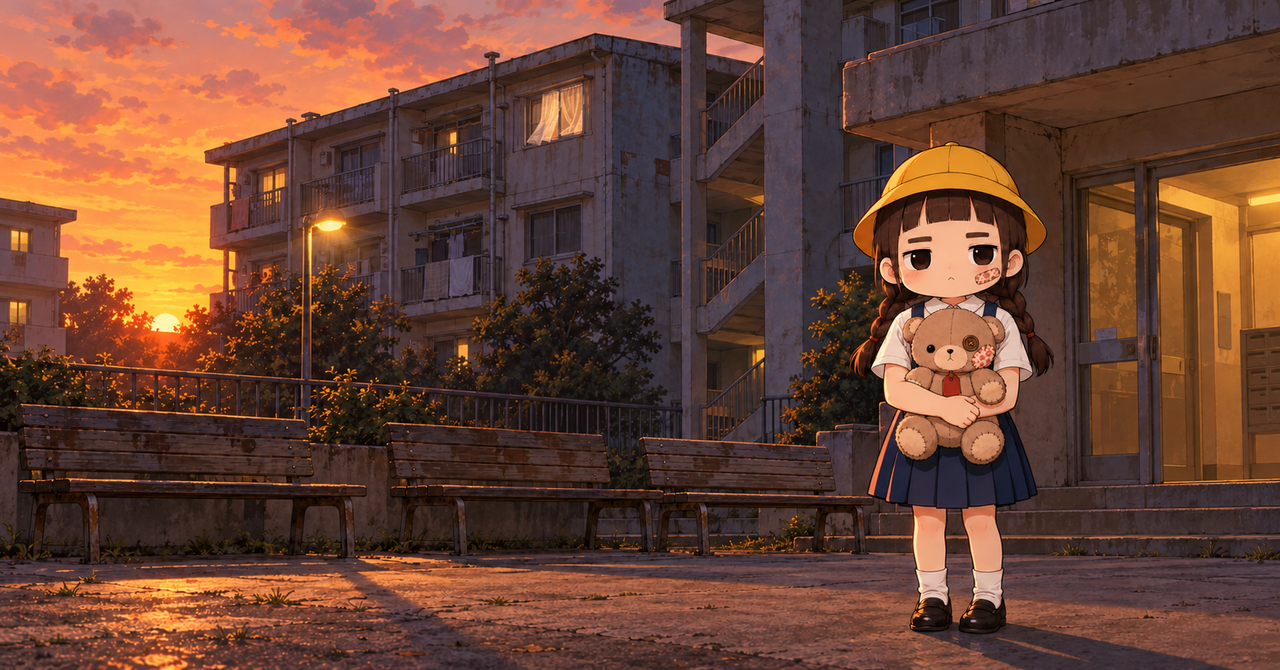
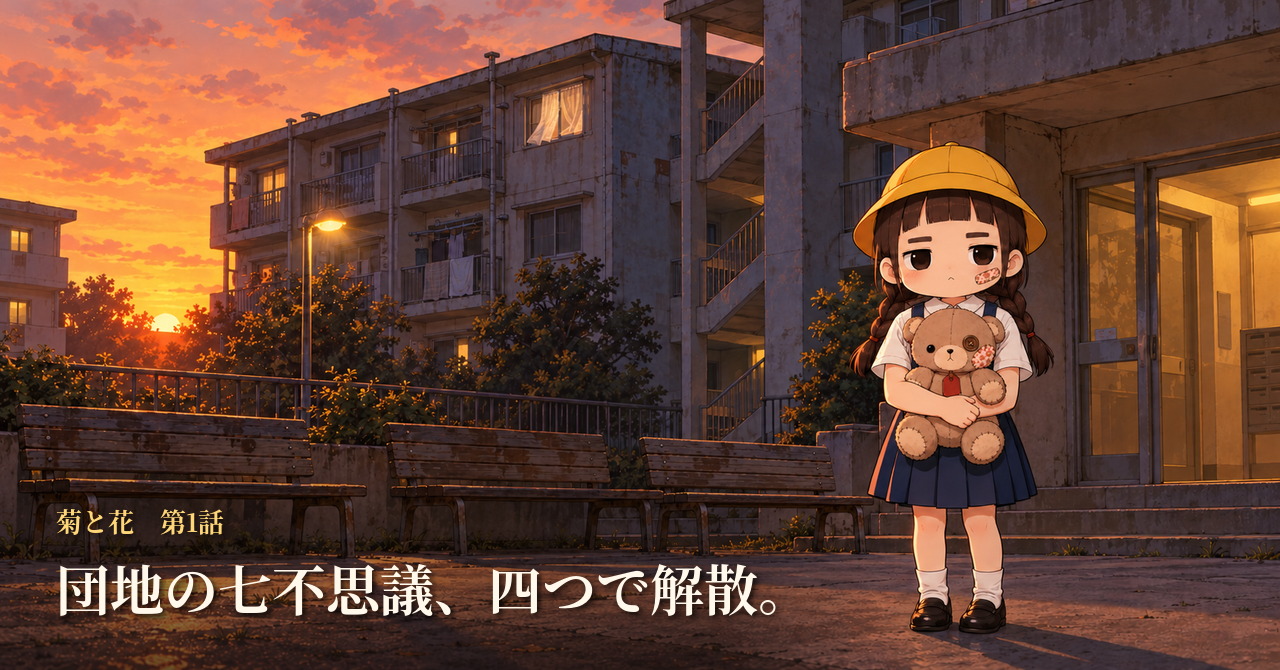
Weekly hub update: published story, reading and illustration

Changed region(s): [[0.0, 0.806, 0.6562, 1.0], [0.0312, 0.7463, 0.1875, 0.806]]

diff --git a/index.html b/index.html
@@ -2,7 +2,7 @@
 <header><a class="brand" href="#">菊<span>と</span>花<i> KIKU TO HANA</i></a><nav aria-label="メイン"><a href="#watch">動画</a><a href="#board">掲示板</a><a href="#about">ふたり</a><a class="nav-shop" href="#shop">スタンプ・グッズ ↗</a></nav></header>
 <main><section class="hero"><div class="buildings" aria-hidden="true"><div></div><div></div><div></div></div><div class="hero-copy"><p class="eyebrow">WELCOME TO OUR LITTLE NEIGHBORHOOD</p><h1>かわいい顔して、<br>今日も、<span>真顔。</span></h1><p class="intro">団地の4階に住むキクと、テディベアのハナ。<br>大人の「絶対」を、ゆるく、鋭く、見つめています。</p><a class="button dark" href="#watch">まずは、ひとつ見ていく？ <span>↘</span></a><div class="quote">「……って、ハナが言ってました。」</div></div><div class="hero-art"><div class="sun" aria-hidden="true"></div><img src="rock.png" alt="赤いギターを持つロックスタイルのキクと、アンプの上に座るハナ"><div class="music-notes" aria-hidden="true"><span>♪</span><span>♫</span><span>🎵</span></div><div class="music-player"><button id="music-toggle" type="button" aria-pressed="false"><small>LET&#39;S PLAY!</small><strong>▶ だる。ちょっと弾いてみるか</strong></button><label class="track-label">曲を選ぶ<select id="music-track" aria-label="演奏する曲"><option value="theme-instrumental.mp3">テーマ曲A · インスト</option><option value="theme-vocal.mp3">テーマ曲A · 歌あり</option><option value="haikaisan.mp3">はい、かいさん。のうた</option></select></label><label>音量 <input id="music-volume" type="range" min="0" max="1" step="0.05" value="0.35" aria-label="演奏の音量"></label><p id="music-status" role="status">押すと音楽が流れます。</p></div><audio id="theme-audio" preload="none" src="theme-instrumental.mp3"></audio></div><div class="hero-bottom"><span>団地のひろば · 晴れ、ときどき皮肉。</span><a href="#watch">SCROLL ↓</a></div></section>
 <section id="watch" class="watch section"><div class="section-heading"><div><p class="eyebrow">ON AIR</p><h2>ひろばのテレビ。</h2></div><p>ちょっとだけ、見ていって。<br>はい、解散。はそのあとで。</p></div><div class="tv-scene"><div class="tv"><div class="antenna" aria-hidden="true"></div><div class="tv-body"><a class="screen" href="https://www.tiktok.com/@kandhkikutohana" target="_blank" rel="noopener noreferrer" aria-label="TikTokで菊と花の動画を見る"><img src="danchi.png" alt="昼の団地"><div class="screen-caption"><span>EPISODE 03</span><strong>幸運の<br>回覧板。</strong><b class="play">▶</b><small>TikTokで見る ↗</small></div></a><div class="tv-controls" aria-hidden="true"><i></i><i></i><div></div><b>K&H</b></div></div><div class="tv-feet" aria-hidden="true"></div></div><div class="tv-viewer"><img class="normal-viewer keyed" src="tv-kiku.png" alt="通常のキクとハナ"><span>「それ、回したら幸せになるの？」</span></div></div><div class="watch-footer"><p>第3話「幸運の回覧板」<small>TikTokでキクとハナのお話を見る。</small></p><a class="text-link" href="https://www.youtube.com/channel/UC3nV8X_xIFuI_V4RlIwc8xg" target="_blank" rel="noopener noreferrer">YouTubeでも見る ↗</a></div></section>
-<section id="board" class="board-zone section"><div class="section-heading"><div><p class="eyebrow">NEIGHBORHOOD BOARD</p><h2>団地の掲示板。</h2></div><p>一枚の絵、一行の皮肉。<br>ふたりの日常を、ここから。</p></div><div class="board"><a class="pinned picture" href="https://x.com/kikutohana" target="_blank" rel="noopener noreferrer"><span class="pin"></span><img src="post.png" alt="銭湯の入口に立つキクとハナ"><div><small>ILLUSTRATION · X</small><h3>今日のキクとハナ。</h3><p>一言で、空気がちょっと変わる。</p><span class="text-link">Xで見にいく ↗</span></div></a><a class="pinned note-card" href="https://note.com/kiku_and_hana" target="_blank" rel="noopener noreferrer"><span class="pin"></span><small>STORIES · NOTE</small><h3>読む、<br>菊と花。</h3><img src="note.png" alt="note小説の団地の風景"><p>「団地の七不思議、<br>四つで解散。」</p><span class="text-link">小説を読みにいく ↗</span></a><a class="pinned insta" href="https://www.instagram.com/kikutohana/" target="_blank" rel="noopener noreferrer"><span class="pin"></span><small>PHOTO DIARY · INSTAGRAM</small><img class="insta-photo" src="instagram.png" alt="夜の団地で立つキクとハナのInstagram用合成写真"><h3>写真の中にも、<br>ふたりがいる。</h3><p>リアルな景色に、<br>キクとハナの気配。</p><span class="text-link">Instagramで見にいく ↗</span></a></div></section>
-<section id="about" class="about section"><div class="section-heading"><div><p class="eyebrow">MEET KIKU & HANA</p><h2>ふたりのこと。</h2></div></div><div class="about-grid"><div class="profiles"><article><img class="profile-picture" src="kiku-profile.png" alt="SNSプロフィール用のキクの画像"><div><span class="number">01 / KIKU</span><h3>キク<small>小学2年生・団地の4階</small></h3><p>昼寝と駄菓子と、静かな場所が好き。<br>大人の嘘を見抜いて、真顔でボソッと刺す。<br>好きじゃない言葉は「絶対」。</p><b>「だる。」「知ってた。」「はい、解散。」</b></div></article><article><img class="profile-picture" src="hana-profile.png" alt="SNSプロフィール用のハナの単体画像"><div><span class="number">02 / HANA</span><h3>ハナ<small>しゃべらない、テディベア</small></h3><p>キクがいつも抱えている相棒。<br>しゃべらない。動かない。<br>だけど、毒舌の責任はいつもハナに。</p></div></article></div></div></section>
+<section id="board" class="board-zone section"><div class="section-heading"><div><p class="eyebrow">NEIGHBORHOOD BOARD</p><h2>団地の掲示板。</h2></div><p>一枚の絵、一行の皮肉。<br>ふたりの日常を、ここから。</p></div><div class="board"><a class="pinned picture" href="https://x.com/kikutohana" target="_blank" rel="noopener noreferrer"><span class="pin"></span><img src="post.png" alt="昼の団地で朝活疲れの大人を見つめるキクとハナ"><div><small>ILLUSTRATION · X</small><h3>今日のキクとハナ。</h3><p>一言で、空気がちょっと変わる。</p><span class="text-link">Xで見にいく ↗</span></div></a><a class="pinned note-card" href="https://note.com/kiku_and_hana/n/n5a0aa753172b" target="_blank" rel="noopener noreferrer"><span class="pin"></span><small>STORIES · NOTE</small><h3>読む、<br>菊と花。</h3><img src="note.png" alt="団地の七不思議、四つで解散。第1話の見出し画像"><p>「団地の七不思議、<br>四つで解散。」</p><span class="text-link">第1話を読みにいく ↗</span></a><a class="pinned insta" href="https://www.instagram.com/kikutohana/" target="_blank" rel="noopener noreferrer"><span class="pin"></span><small>PHOTO DIARY · INSTAGRAM</small><img class="insta-photo" src="instagram.png" alt="夜の団地で立つキクとハナのInstagram用合成写真"><h3>写真の中にも、<br>ふたりがいる。</h3><p>リアルな景色に、<br>キクとハナの気配。</p><span class="text-link">Instagramで見にいく ↗</span></a></div></section>
+<div class="section" style="padding-top:0;padding-bottom:30px"><a class="text-link" href="https://www.youtube.com/watch?v=kuikYpLWDC0" target="_blank" rel="noopener noreferrer">第1話を朗読で聴く · YouTube ↗</a></div><section id="about" class="about section"><div class="section-heading"><div><p class="eyebrow">MEET KIKU & HANA</p><h2>ふたりのこと。</h2></div></div><div class="about-grid"><div class="profiles"><article><img class="profile-picture" src="kiku-profile.png" alt="SNSプロフィール用のキクの画像"><div><span class="number">01 / KIKU</span><h3>キク<small>小学2年生・団地の4階</small></h3><p>昼寝と駄菓子と、静かな場所が好き。<br>大人の嘘を見抜いて、真顔でボソッと刺す。<br>好きじゃない言葉は「絶対」。</p><b>「だる。」「知ってた。」「はい、解散。」</b></div></article><article><img class="profile-picture" src="hana-profile.png" alt="SNSプロフィール用のハナの単体画像"><div><span class="number">02 / HANA</span><h3>ハナ<small>しゃべらない、テディベア</small></h3><p>キクがいつも抱えている相棒。<br>しゃべらない。動かない。<br>だけど、毒舌の責任はいつもハナに。</p></div></article></div></div></section>
 <section id="shop" class="shop section"><div class="section-heading"><div><p class="eyebrow">TAKE US WITH YOU</p><h2>日常にも、菊と花。</h2></div><p>おしゃべりにはスタンプを。<br>お気に入りには、グッズを。</p></div><div class="shop-grid"><a href="https://line.me/S/sticker/37164473" target="_blank" rel="noopener noreferrer"><span>01 · LINE STICKERS</span><h3>言いにくいこと、<br>キクにまかせる。</h3><img class="line-material" src="line-material.png" alt="LINEスタンプ用の寝そべるキクとハナの実素材"><b>LINEスタンプを見る ↗</b></a><a href="https://suzuri.jp/kikutohana" target="_blank" rel="noopener noreferrer"><span>02 · OFFICIAL GOODS</span><h3>好きなふたりを、<br>そばに置く。</h3><img class="normal-goods keyed" src="goods-kiku.png" alt="通常のキクとハナのイラスト"><b>SUZURIのお店へ ↗</b></a></div><p class="fine">商品の販売状況は販売先で確認できます。</p></section>
 <section class="all-links section"><p class="eyebrow">FIND US</p><h2>好きな入口から、どうぞ。</h2><div><a href="https://www.tiktok.com/@kandhkikutohana">TikTok ↗</a><a href="https://www.youtube.com/channel/UC3nV8X_xIFuI_V4RlIwc8xg">YouTube ↗</a><a href="https://note.com/kiku_and_hana">note ↗</a><a href="https://x.com/kikutohana">X ↗</a><a href="https://www.instagram.com/kikutohana/">Instagram ↗</a></div></section></main><footer><a class="brand" href="#">菊<span>と</span>花</a><p>……って、ハナが言ってました。</p><small>© Kiku to Hana Production Committee<br>AIを活用したオリジナル作品です。</small><a href="#">上へ ↑</a></footer><div class="producer-credit">Produced by <strong>MIYABI × MIYABI</strong></div><script src="music.js?v=2"></script></body></html>
